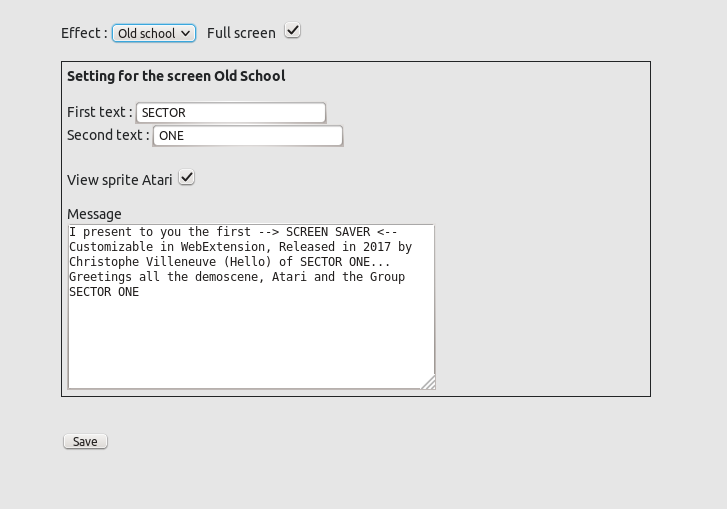
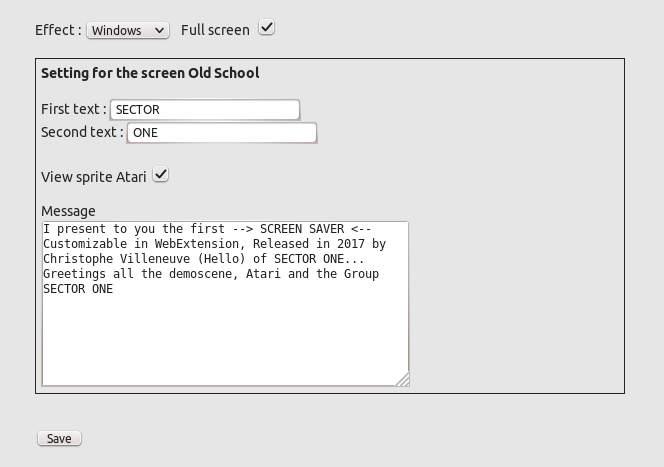
evolution du readme

diff --git a/README.md b/README.md
@@ -6,14 +6,44 @@ L'économiseur d'écran de WebExtensions propose trois différentes animations, 
 ## But
 Le but de l’extension est affiché un écran animé à l'importe quel moment, à partir de votre navigateur Firefox sans avoir à verrouiller votre ordinateur.
 
-Pour cela, un seul bouton, représenté par une icône, permet de lancer l’animation.
+Pour cela, un seul bouton, représenté par une icône, ![Screenshot](screenshots/icon.png "icône pour lancer l'animation") pour lancer l’animation. Celui-ci se positionne dans la barre d'outils.
 
 Pour choisir une autre animation, vous passerez par l’écran des paramètres.
  
 
 ## L'écran des paramètres
+L'écran de configuration se décompose comme ceci : 
+
+### Les effets
+
+L'extension propose 3 animations différentes : 
+
+* Windows 
+
+* Add-ons
+
+* Old school
+
+Le résultat de chaque écran est expliqué un peu plus bas
+
+ 
+### Fullscreen
+Le mode 'Fullscreen' fonctionne pour tous les trois effets ci-dessus. 
+
+Pour voir ce mode, il faut suffit de cocher la case
+
+
+### Paramétrage de l'écran Old School
+
+L'effet 'old school' offre plusieurs animations paramétrables
 
 ![Screenshot](screenshots/settings.png "Settings")
+
+Tout d'abord 2 champs textes et sont animés sous la forme de sprite
+
+Une image qui est par défaut affiché, dont vous pourrez cacher en décochant la case
+
+Le champ 'message' permet de taper votre propre texte. il se positionne en bas de l'écran  
 
 
 
@@ -37,6 +67,16 @@ Cet écran est pour rappeler que le groupe de démomaker SECTOR ONE est toujours
 
 ## Ecran personnalisable
 
+L'écran personnalisable permet de modifier les animations de l'effet. 
+
+Ici, nous avons choisi l'effet 'oldschool' avec les paramétrages suivant 
+
+![Screenshot](screenshots/demo1-setting.png "Ecran de configuration personnalisé")
+
+
+pour obtenir le résultat suivant
+
+![Screenshot](screenshots/demo1.png "exemple ScreenSaver webExtensions personnalisé")
 
 
 
@@ -58,6 +98,12 @@ En cours de portage. L'extension sera disponible prochainement
 * Edge 
 
 En cours de portage. L'extension sera disponible prochainement
+
+
+## Bug
+Pour voir 
+
+Attention : Lorsque la case 'FULLSCREEN' est coché, 
 
 
 
